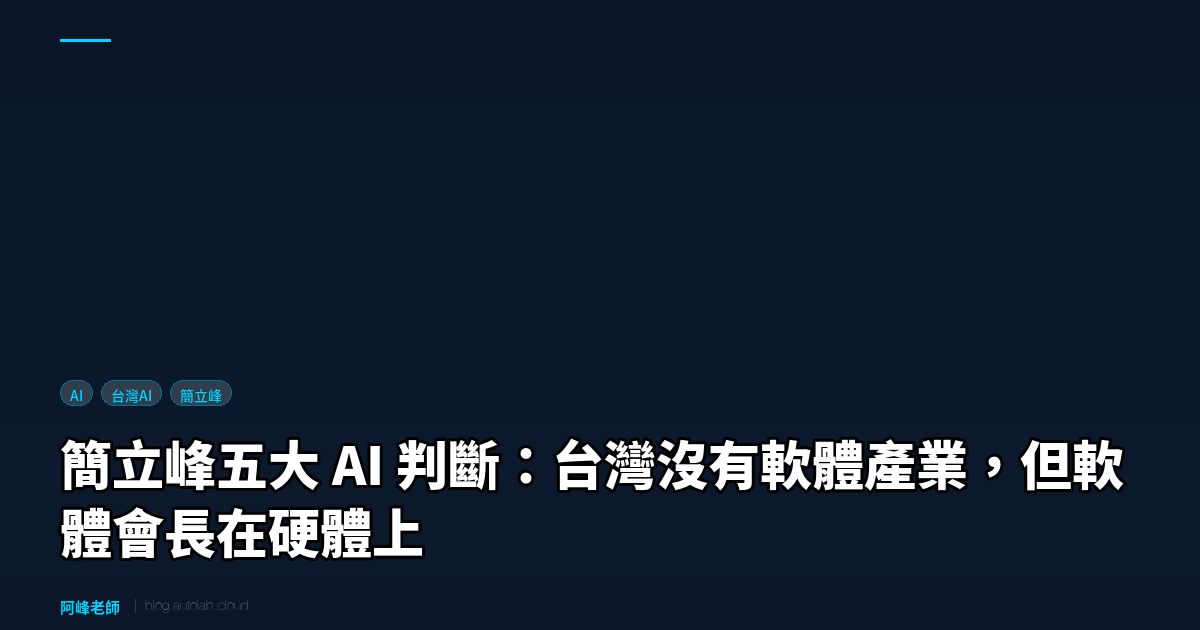
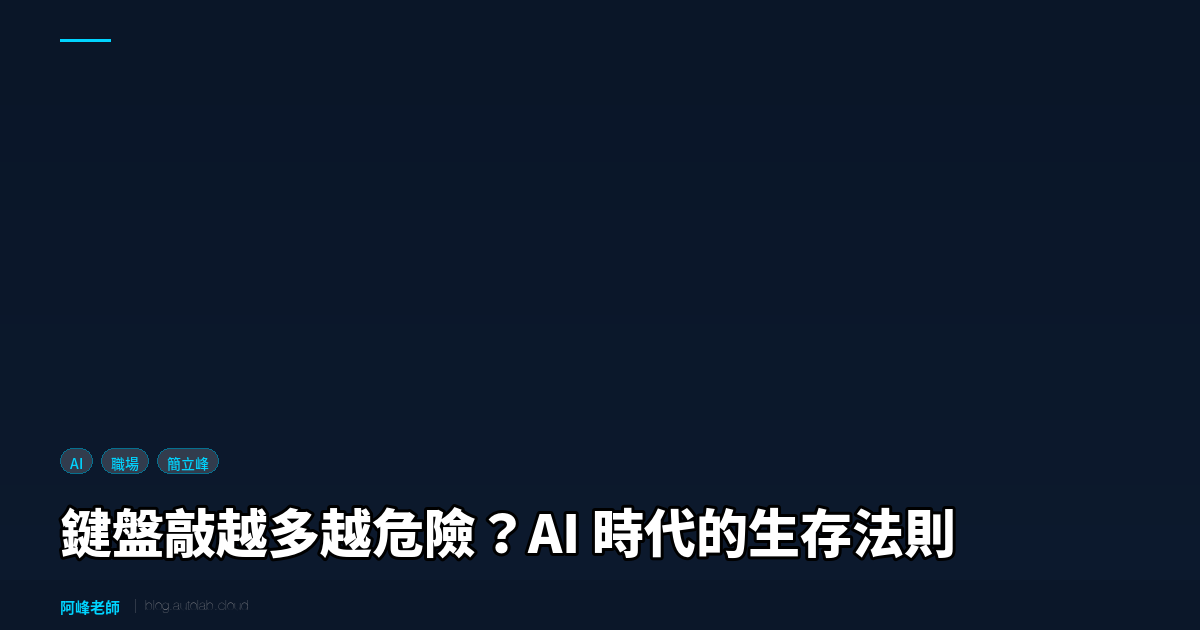
blog: rebuild site

Changed region(s): [[0.0308, 0.6937, 0.9558, 0.9048], [0.0308, 0.6032, 0.2158, 0.6635]]

diff --git a/blog/article-2026-03-07/index.html b/blog/article-2026-03-07/index.html
@@ -3,17 +3,17 @@
 <head>
   <meta charset="UTF-8">
   <meta name="viewport" content="width=device-width, initial-scale=1.0">
-  <title>簡立峰五大 AI 判斷：台灣沒有軟體產業，但軟體會長在硬體上 — 阿峰老師</title>
-  <meta name="description" content="Google 台灣前總經理簡立峰對台灣 AI 未來做出五個關鍵判斷。從兩國九家公司壟斷 AI，到中小企業老闆用 AI 乘三倍，阿峰老師帶你拆解每一個判斷背後的實戰意義。">
-  <meta name="keywords" content="簡立峰 AI, 台灣 AI 策略, 中小企業 AI, 企業 AI 培訓, Gemini 3">
+  <title>鍵盤敲越多越危險？AI 時代的個人生存法則｜簡立峰博士觀點 — 阿峰老師</title>
+  <meta name="description" content="前 Google 台灣董事總經理簡立峰博士揭露 AI 時代職場真相：鍵盤工作比例越高越危險，但一人公司是巨大機會。含獨家自我檢測法和一人公司實戰指南。">
+  <meta name="keywords" content="AI時代生存, 鍵盤工作被取代, 一人公司, 簡立峰AI, AI職場趨勢">
   <meta name="author" content="黃敬峰（AI峰哥）">
   <link rel="canonical" href="https://blog.autolab.cloud/article-2026-03-07/">
 
   <!-- Open Graph -->
   <meta property="og:type" content="article">
-  <meta property="og:title" content="簡立峰五大 AI 判斷：台灣沒有軟體產業，但軟體會長在硬體上">
-  <meta property="og:description" content="Google 台灣前總經理簡立峰對台灣 AI 未來做出五個關鍵判斷。從兩國九家公司壟斷 AI，到中小企業老闆用 AI 乘三倍，阿峰老師帶你拆解每一個判斷背後的實戰意義。">
-  <meta property="og:image" content="https://blog.autolab.cloud/article-2026-03-07/thumbnail.png">
+  <meta property="og:title" content="鍵盤敲越多越危險？AI 時代的個人生存法則｜簡立峰博士觀點">
+  <meta property="og:description" content="前 Google 台灣董事總經理簡立峰博士揭露 AI 時代職場真相：鍵盤工作比例越高越危險，但一人公司是巨大機會。含獨家自我檢測法和一人公司實戰指南。">
+  <meta property="og:image" content="https://blog.autolab.cloud/article-2026-03-07/banner.png">
   <meta property="og:image:width" content="1200">
   <meta property="og:image:height" content="630">
   <meta property="og:url" content="https://blog.autolab.cloud/article-2026-03-07/">
@@ -25,12 +25,12 @@
 
   <!-- Twitter Card -->
   <meta name="twitter:card" content="summary_large_image">
-  <meta name="twitter:title" content="簡立峰五大 AI 判斷：台灣沒有軟體產業，但軟體會長在硬體上">
-  <meta name="twitter:description" content="Google 台灣前總經理簡立峰對台灣 AI 未來做出五個關鍵判斷。從兩國九家公司壟斷 AI，到中小企業老闆用 AI 乘三倍，阿峰老師帶你拆解每一個判斷背後的實戰意義。">
-  <meta name="twitter:image" content="https://blog.autolab.cloud/article-2026-03-07/thumbnail.png">
+  <meta name="twitter:title" content="鍵盤敲越多越危險？AI 時代的個人生存法則｜簡立峰博士觀點">
+  <meta name="twitter:description" content="前 Google 台灣董事總經理簡立峰博士揭露 AI 時代職場真相：鍵盤工作比例越高越危險，但一人公司是巨大機會。含獨家自我檢測法和一人公司實戰指南。">
+  <meta name="twitter:image" content="https://blog.autolab.cloud/article-2026-03-07/banner.png">
 
   <!-- JSON-LD -->
-  <script type="application/ld+json">{"@context": "https://schema.org", "@type": "Article", "headline": "簡立峰五大 AI 判斷：台灣沒有軟體產業，但軟體會長在硬體上", "description": "Google 台灣前總經理簡立峰對台灣 AI 未來做出五個關鍵判斷。從兩國九家公司壟斷 AI，到中小企業老闆用 AI 乘三倍，阿峰老師帶你拆解每一個判斷背後的實戰意義。", "author": {"@type": "Person", "name": "黃敬峰（AI峰哥）", "url": "https://www.autolab.cloud"}, "publisher": {"@type": "Organization", "name": "Autolab", "url": "https://www.autolab.cloud", "logo": {"@type": "ImageObject", "url": "https://blog.autolab.cloud/static/og-default.png"}}, "datePublished": "2026-03-07T00:00:00+08:00", "dateModified": "2026-03-07T00:00:00+08:00", "image": "https://blog.autolab.cloud/article-2026-03-07/thumbnail.png", "mainEntityOfPage": "https://blog.autolab.cloud/article-2026-03-07/", "keywords": "簡立峰 AI, 台灣 AI 策略, 中小企業 AI, 企業 AI 培訓, Gemini 3", "inLanguage": "zh-Hant-TW", "video": {"@type": "VideoObject", "name": "簡立峰五大 AI 判斷：台灣沒有軟體產業，但軟體會長在硬體上", "description": "Google 台灣前總經理簡立峰對台灣 AI 未來做出五個關鍵判斷。從兩國九家公司壟斷 AI，到中小企業老闆用 AI 乘三倍，阿峰老師帶你拆解每一個判斷背後的實戰意義。", "thumbnailUrl": "https://img.youtube.com/vi/RpipnM9kCK4/maxresdefault.jpg", "uploadDate": "2026-03-07T00:00:00+08:00", "embedUrl": "https://www.youtube.com/embed/RpipnM9kCK4", "url": "https://www.youtube.com/watch?v=RpipnM9kCK4"}}</script>
+  <script type="application/ld+json">{"@context": "https://schema.org", "@type": "Article", "headline": "鍵盤敲越多越危險？AI 時代的個人生存法則｜簡立峰博士觀點", "description": "前 Google 台灣董事總經理簡立峰博士揭露 AI 時代職場真相：鍵盤工作比例越高越危險，但一人公司是巨大機會。含獨家自我檢測法和一人公司實戰指南。", "author": {"@type": "Person", "name": "黃敬峰（AI峰哥）", "url": "https://www.autolab.cloud"}, "publisher": {"@type": "Organization", "name": "Autolab", "url": "https://www.autolab.cloud", "logo": {"@type": "ImageObject", "url": "https://blog.autolab.cloud/static/og-default.png"}}, "datePublished": "2026-03-07T00:00:00+08:00", "dateModified": "2026-03-07T00:00:00+08:00", "image": "https://blog.autolab.cloud/article-2026-03-07/banner.png", "mainEntityOfPage": "https://blog.autolab.cloud/article-2026-03-07/", "keywords": "AI時代生存, 鍵盤工作被取代, 一人公司, 簡立峰AI, AI職場趨勢", "inLanguage": "zh-Hant-TW", "video": {"@type": "VideoObject", "name": "鍵盤敲越多越危險？AI 時代的個人生存法則｜簡立峰博士觀點", "description": "前 Google 台灣董事總經理簡立峰博士揭露 AI 時代職場真相：鍵盤工作比例越高越危險，但一人公司是巨大機會。含獨家自我檢測法和一人公司實戰指南。", "thumbnailUrl": "https://img.youtube.com/vi/J9F-Obf-IcE/maxresdefault.jpg", "uploadDate": "2026-03-07T00:00:00+08:00", "embedUrl": "https://www.youtube.com/embed/J9F-Obf-IcE", "url": "https://www.youtube.com/watch?v=J9F-Obf-IcE"}}</script>
 
   <!-- Favicon -->
   <link rel="icon" type="image/png" href="https://blog.autolab.cloud/static/favicon.png">
@@ -70,73 +70,113 @@
       <span>2026-03-07</span>
       <span>黃敬峰（AI峰哥）</span>
     </div>
-    <h1>簡立峰五大 AI 判斷：台灣沒有軟體產業，但軟體會長在硬體上</h1>
-    <div class="card-tags"><span class="tag">AI</span><span class="tag">台灣AI</span><span class="tag">簡立峰</span><span class="tag">Google</span><span class="tag">中小企業AI</span><span class="tag">企業AI培訓</span><span class="tag">阿峰老師</span></div>
+    <h1>鍵盤敲越多越危險？AI 時代的個人生存法則｜簡立峰博士觀點</h1>
+    <div class="card-tags"><span class="tag">AI</span><span class="tag">職場</span><span class="tag">簡立峰</span><span class="tag">一人公司</span><span class="tag">AI培訓</span></div>
   </header>
 
   <!-- Featured Image -->
-  <div class="featured-image-wrapper"><img src="thumbnail.png" alt="簡立峰五大 AI 判斷：台灣沒有軟體產業，但軟體會長在硬體上" class="featured-image" loading="lazy" width="780" height="438"></div>
+  <div class="featured-image-wrapper"><img src="banner.png" alt="鍵盤敲越多越危險？AI 時代的個人生存法則｜簡立峰博士觀點" class="featured-image" loading="lazy" width="780" height="438"></div>
 
   <!-- YouTube -->
-  <a href="https://www.youtube.com/watch?v=RpipnM9kCK4" target="_blank" rel="noopener" class="yt-banner" aria-label="在 YouTube 觀看：簡立峰五大 AI 判斷：台灣沒有軟體產業，但軟體會長在硬體上">
-  <img src="https://img.youtube.com/vi/RpipnM9kCK4/maxresdefault.jpg"
-       onerror="this.src='https://img.youtube.com/vi/RpipnM9kCK4/hqdefault.jpg'"
-       alt="觀看影片：簡立峰五大 AI 判斷：台灣沒有軟體產業，但軟體會長在硬體上" loading="lazy" width="1280" height="720">
+  <a href="https://www.youtube.com/watch?v=J9F-Obf-IcE" target="_blank" rel="noopener" class="yt-banner" aria-label="在 YouTube 觀看：鍵盤敲越多越危險？AI 時代的個人生存法則｜簡立峰博士觀點">
+  <img src="https://img.youtube.com/vi/J9F-Obf-IcE/maxresdefault.jpg"
+       onerror="this.src='https://img.youtube.com/vi/J9F-Obf-IcE/hqdefault.jpg'"
+       alt="觀看影片：鍵盤敲越多越危險？AI 時代的個人生存法則｜簡立峰博士觀點" loading="lazy" width="1280" height="720">
   <div class="yt-play" role="img" aria-hidden="true">&#9654;</div>
 </a>
 
   <!-- CONTENT -->
   <main id="main-content">
   <article class="article-content">
-    <h1 id="google-ai">Google 前總經理簡立峰的五個判斷：台灣 AI 的機會與殘酷真相</h1>
+    <h1 id="ai">鍵盤敲越多越危險？簡立峰博士教你 AI 時代的生存法則</h1>
 <blockquote>
-<p>本文是 YouTube 影片「Google前總經理簡立峰：台灣AI未來的5個關鍵判斷」的延伸閱讀版。
-影片講了核心觀念，本文加上獨家分析和實戰觀察。
-影片版本：<a href="https://www.youtube.com/watch?v=RpipnM9kCK4">https://www.youtube.com/watch?v=RpipnM9kCK4</a></p>
+<p>本文是 YouTube 影片「鍵盤敲越多越危險？簡立峰博士揭露 AI 時代的生存法則」的延伸閱讀版。
+影片講了核心觀念，本文加上獨家分析和實戰建議。
+影片版本：<a href="https://www.youtube.com/watch?v=J9F-Obf-IcE">https://www.youtube.com/watch?v=J9F-Obf-IcE</a></p>
 </blockquote>
 <hr />
 <h2 id="_1">影片重點回顧</h2>
-<p>Google 台灣前總經理簡立峰在思想實驗室的深度訪談中，對台灣 AI 產業做出五個關鍵判斷：AI 已是經濟問題而非科學問題、全球只剩兩國九家公司、台灣機會在邊緣裝置與垂直整合、中小企業老闆先用 AI 就夠、台灣最大問題是沒有人而非沒有技術。每一個判斷都指向同一個結論——台灣要把自己的概念變大。</p>
+<p>前 Google 台灣董事總經理簡立峰博士指出，AI 正在改變職場的遊戲規則。麥肯錫把每個工作拆成三種能力：虛擬環境、實體世界、人際情商。結論是「鍵盤敲越多的人，越容易被取代」。但同時，OECD 預測今年全球會出現 200-300 萬家一人公司，危機中藏著巨大機會。</p>
 <hr />
-<h2 id="_2">【獨家】從培訓現場看簡立峰的「老闆乘三倍」理論</h2>
-<p>簡立峰說中小企業不需要全員導入 AI，老闆一個人用就夠了。這個觀點我在培訓現場已經驗證過上百次。</p>
-<p>我服務過超過 400 家企業，從台積電、國泰金控到只有五個人的小公司。有一個共同的模式：大企業的 AI 導入通常是由上而下的策略決定，HR 規劃培訓、IT 部門選工具、全員分批上課。但中小企業完全不是這樣。</p>
-<p>中小企業的 AI 導入幾乎都是「老闆自己先玩起來，然後帶動全公司」。</p>
-<p>我有一個學員，開了一家 15 人的行銷公司。他上完我的課之後，回去用 ChatGPT 重新設計了客戶提案流程。以前一份提案要花三天，現在半天就搞定，而且品質更好。他沒有要求員工學 AI，但員工看到老闆的效率暴增，自己就開始學了。</p>
-<p>這就是簡立峰說的「老闆乘三倍」效應。不是你教員工用 AI，是老闆用 AI 用到效果太明顯，員工自己就跟上了。</p>
-<p>但這裡有一個簡立峰沒有展開的問題：老闆要學什麼？</p>
-<p>根據我的培訓經驗，中小企業老闆最需要的三個 AI 技能是：</p>
+<h2 id="_2">【獨家】你的工作有多少是「鍵盤工作」？自我檢測法</h2>
+<p>簡立峰博士的觀點讓我印象深刻，但很多人聽完可能會問：「所以我到底該怎麼辦？」</p>
+<p>我在企業培訓的時候，會請學員做一個簡單的練習：把你一天的工作列出來，然後標記每一項是「鍵盤工作」還是「非鍵盤工作」。</p>
+<p><strong>鍵盤工作</strong>：寫報告、回 Email、整理數據、製作簡報、寫程式、文案撰寫
+<strong>非鍵盤工作</strong>：面對面溝通、客戶拜訪、現場指導、創意發想、策略討論、團隊帶領</p>
+<p>如果你的鍵盤工作佔比超過 70%，你就需要認真思考了。不是說你會被裁員，而是你的工作中有很大一部分可以被 AI 加速甚至取代。</p>
+<p>但好消息是，這代表你有更多時間去做那些 AI 做不到的事：建立關係、做策略判斷、創造新的商業價值。</p>
+<h3 id="_3">三個轉型方向</h3>
 <ol>
 <li>
-<p><strong>用 AI 做客戶研究</strong>：你不需要花錢做市調了。問 AI 你的目標客群在想什麼、競爭對手在做什麼、這個市場的趨勢是什麼。一個下午就能拿到過去要花十萬塊才能得到的洞察。</p>
+<p><strong>從執行者變成審核者</strong>：讓 AI 先出第一版，你負責審核和優化。你的專業判斷力就是價值所在。</p>
 </li>
 <li>
-<p><strong>用 AI 寫提案和報告</strong>：不是讓 AI 幫你寫，而是讓 AI 幫你「升級」。你寫一個粗略版本，讓 AI 幫你加數據、加案例、加專業用語。從 70 分升級到 90 分，速度快五倍。</p>
+<p><strong>從單打獨鬥變成 AI 團隊長</strong>：學會同時操作多個 AI 工具，讓它們各司其職。文案用 ChatGPT、數據用 Claude、圖片用 Midjourney，你是指揮官。</p>
 </li>
 <li>
-<p><strong>用 AI 管理日常營運</strong>：排班、庫存、客服回覆、社群貼文，這些重複性工作全部可以讓 AI 協助。老闆不用再當全公司的消防隊長。</p>
+<p><strong>從純數位走向實體連結</strong>：刻意增加面對面的互動。AI 時代最稀缺的反而是「人的溫度」。</p>
 </li>
 </ol>
 <hr />
-<h2 id="_3">【獨家】「兩國九家」格局下，台灣新創的生存指南</h2>
-<p>簡立峰把全球 AI 格局講得很清楚：美國七家、中國兩家，門檻高到後進者進不來。但他也提到台灣有一個獨特的優勢位置——硬體。</p>
-<p>我在培訓現場看到一個有趣的現象：越來越多台灣的硬體公司開始認真投入 AI。不是因為他們突然開竅了，而是因為他們的美國客戶要求他們必須具備 AI 能力。</p>
-<p>一家做工業感測器的公司告訴我，他們的美國客戶直接說：「如果你的產品不能接 AI 模型做預測性維護，我們就換供應商。」這家公司的老闆嚇到了，馬上來找我做企業培訓。</p>
-<p>這就是簡立峰說的「軟體長在硬體上」。台灣不需要做出自己的大模型，但每一個硬體產品都需要具備接入雲端 AI 的能力。這個「接水管」的工作，就是台灣新創的機會。</p>
-<p>根據我的觀察，目前在台灣做得最好的 AI 新創，都有以下共同特徵：</p>
+<h2 id="0-1">【獨家】一人公司實戰指南：從 0 到 1 的五個步驟</h2>
+<p>影片中提到 OECD 預測今年全球會出現 200-300 萬家一人公司，我想進一步分享我觀察到的成功模式。</p>
+<h3 id="step-1ai">Step 1：找到你的「AI 加速區」</h3>
+<p>不是所有工作都適合一人公司。最適合的是那些「專業門檻高 + AI 可以大幅提升效率」的領域：</p>
 <ul>
-<li><strong>垂直整合</strong>：專注一個產業，把那個產業的 workflow 搞到透徹</li>
-<li><strong>資料為王</strong>：掌握特定產業的數據，這是雲端大模型沒有的</li>
-<li><strong>巨人肩膀</strong>：站在 Google、Microsoft、AWS 的 AI 服務上面，不自己造輪子</li>
-<li><strong>大客戶優先</strong>：先服務大企業（甚至是台積電），用大客戶的需求磨練產品</li>
+<li><strong>行銷顧問</strong>：策略靠你的經驗，執行（文案、素材、報告）交給 AI</li>
+<li><strong>設計工作室</strong>：客戶溝通靠你，初稿和變體交給 AI</li>
+<li><strong>培訓講師</strong>：課程設計靠你的教學經驗，講義和評估工具交給 AI</li>
+<li><strong>數據分析</strong>：商業洞察靠你的行業理解，數據處理交給 AI</li>
 </ul>
+<h3 id="step-2-ai">Step 2：建立你的 AI 工具箱</h3>
+<p>一人公司至少需要掌握這些 AI 工具：</p>
+<table>
+<thead>
+<tr>
+<th>用途</th>
+<th>推薦工具</th>
+</tr>
+</thead>
+<tbody>
+<tr>
+<td>文字生成</td>
+<td>ChatGPT / Claude</td>
+</tr>
+<tr>
+<td>深度研究</td>
+<td>Gemini Deep Research / Perplexity</td>
+</tr>
+<tr>
+<td>簡報製作</td>
+<td>Gamma / Beautiful.ai</td>
+</tr>
+<tr>
+<td>圖片設計</td>
+<td>Midjourney / Canva AI</td>
+</tr>
+<tr>
+<td>自動化</td>
+<td>n8n / Zapier</td>
+</tr>
+<tr>
+<td>語音轉文字</td>
+<td>Whisper / 會議記錄小幫手</td>
+</tr>
+</tbody>
+</table>
+<h3 id="step-3">Step 3：用七成成本報價</h3>
+<p>簡立峰博士提到的「七成成本」是關鍵。你不需要削價競爭，而是你的效率讓你在七成價格時仍然有合理利潤。這對客戶來說是雙贏。</p>
+<h3 id="step-4">Step 4：建立作品集而非名片</h3>
+<p>一人公司不需要華麗的辦公室和名片。你需要的是一個能展示成果的線上作品集。用 AI 幫你快速建立一個專業的個人網站。</p>
+<h3 id="step-5">Step 5：從兼職開始，不要裸辭</h3>
+<p>最安全的方式是在現有工作中驗證你的一人公司模式。先接 2-3 個小案子，確認模式可行，再考慮全職投入。</p>
 <hr />
 <h2 id="_4">阿峰觀點</h2>
-<p>簡立峰的五個判斷中，我覺得最被低估的是第四個——中小企業的 AI 策略。</p>
-<p>台灣有超過 150 萬家中小企業，佔全部企業的 98%。如果每個老闆都能把自己「乘以三倍」，台灣的整體生產力會出現一次巨大的跳躍。這不需要等政府政策、不需要等大企業帶頭、不需要砸大錢投資基礎設施。</p>
-<p>你只需要一台電腦、一個 AI 帳號、和兩個小時的學習時間。</p>
-<p>我在課堂上常說的一句話是：「你是機長，AI 是機組人員。」你不需要自己飛飛機，但你必須知道要飛到哪裡。AI 時代最重要的能力不是寫程式、不是做模型，而是知道該問什麼問題、該往哪個方向走。</p>
-<p>簡立峰用隧道做比喻，我覺得非常精準。大部分人看到的是黑暗，但走過隧道的人看到的是另一個世界。</p>
+<p>簡立峰博士有一句話我反覆在企業培訓中引用：「一問一答叫抄襲，十問十答叫學習，百問百答叫創造。」</p>
+<p>我服務過超過 400 家企業，從台積電到街口小店，發現一個共同規律：導入 AI 最成功的團隊，不是技術最強的，而是最願意改變工作方式的。</p>
+<p>技術可以學，工具可以買，但心態的轉變才是最難的。很多資深主管第一反應是「這個 AI 回答得不好啊」，然後就再也不用了。他們不知道的是，AI 每天晚上都在進步，今天不好用不代表下個月不好用。</p>
+<p>你是機長，AI 是機組人員。機長不需要自己開引擎，但他要知道什麼時候該讓機組人員做什麼。</p>
+<p>AI 就像簡立峰博士說的那個隧道——有人看到暗暗的覺得是風險，有人看到盡頭的亮光覺得是機會。這個機會，可能一生只有一次。</p>
 <hr />
 <h2 id="_5">本文提到的資源</h2>
 <table>
@@ -151,42 +191,37 @@
 <tr>
 <td>ChatGPT</td>
 <td><a href="https://chatgpt.com">https://chatgpt.com</a></td>
-<td>OpenAI 的 AI 對話工具</td>
-</tr>
-<tr>
-<td>Gemini</td>
-<td><a href="https://gemini.google.com">https://gemini.google.com</a></td>
-<td>Google 的 AI 助手</td>
+<td>AI 對話工具</td>
 </tr>
 <tr>
 <td>Claude</td>
 <td><a href="https://claude.ai">https://claude.ai</a></td>
-<td>Anthropic 的 AI 助手</td>
+<td>AI 助理</td>
+</tr>
+<tr>
+<td>Gemini</td>
+<td><a href="https://gemini.google.com">https://gemini.google.com</a></td>
+<td>Google AI（含 Deep Research）</td>
 </tr>
 <tr>
 <td>Perplexity</td>
 <td><a href="https://www.perplexity.ai">https://www.perplexity.ai</a></td>
 <td>AI 搜尋引擎</td>
 </tr>
-</tbody>
-</table>
-<h2 id="_6">影片中提到的資源</h2>
-<table>
-<thead>
 <tr>
-<th>資源</th>
-<th>連結</th>
-</tr>
-</thead>
-<tbody>
-<tr>
-<td>思想實驗室 ep75 完整版</td>
-<td><a href="https://www.youtube.com/watch?v=lie9zRW2P6A">https://www.youtube.com/watch?v=lie9zRW2P6A</a></td>
+<td>Gamma</td>
+<td><a href="https://gamma.app">https://gamma.app</a></td>
+<td>AI 簡報製作</td>
 </tr>
 </tbody>
 </table>
 <hr />
-<p>企業 AI 培訓｜阿峰老師服務過台積電、國泰金控等 400+ 家企業
+<h2 id="_6">影片中提到的資源</h2>
+<ul>
+<li>簡立峰博士原始訪談：<a href="https://www.youtube.com/watch?v=QxpE6vgP0D8">https://www.youtube.com/watch?v=QxpE6vgP0D8</a></li>
+</ul>
+<hr />
+<p>企業 AI 培訓｜阿峰老師服務過台積電、國泰金控、中華電信等 400+ 企業
 → <a href="https://www.autolab.cloud">https://www.autolab.cloud</a></p>
 <hr />
 <h3 id="_7">關於作者</h3>

diff --git a/blog/index.html b/blog/index.html
@@ -92,12 +92,12 @@
   </div>
 </a>
 <a href="https://blog.autolab.cloud/article-2026-03-07/" class="card">
-  <img class="card-thumb" src="https://blog.autolab.cloud/article-2026-03-07/banner.png" alt="簡立峰五大 AI 判斷：台灣沒有軟體產業，但軟體會長在硬體上" loading="lazy">
+  <img class="card-thumb" src="https://blog.autolab.cloud/article-2026-03-07/banner.png" alt="鍵盤敲越多越危險？AI 時代的個人生存法則｜簡立峰博士觀點" loading="lazy">
   <div class="card-body">
     <div class="card-date">2026-03-07</div>
-    <div class="card-title">簡立峰五大 AI 判斷：台灣沒有軟體產業，但軟體會長在硬體上</div>
-    <div class="card-desc">Google 台灣前總經理簡立峰對台灣 AI 未來做出五個關鍵判斷。從兩國九家公司壟斷 AI，到中小企業老闆用 AI 乘三倍，阿峰老師帶你拆解每一個判斷背後的實戰意義。</div>
-    <div class="card-tags"><span class="tag">AI</span><span class="tag">台灣AI</span><span class="tag">簡立峰</span></div>
+    <div class="card-title">鍵盤敲越多越危險？AI 時代的個人生存法則｜簡立峰博士觀點</div>
+    <div class="card-desc">前 Google 台灣董事總經理簡立峰博士揭露 AI 時代職場真相：鍵盤工作比例越高越危險，但一人公司是巨大機會。含獨家自我檢測法和一人公司實戰指南。</div>
+    <div class="card-tags"><span class="tag">AI</span><span class="tag">職場</span><span class="tag">簡立峰</span></div>
   </div>
 </a>
 <a href="https://blog.autolab.cloud/satya-nadella-ai-ceo-ai-ai/" class="card">

diff --git a/articles/vibe-coding-ai.md b/articles/vibe-coding-ai.md
@@ -150,6 +150,14 @@ AI 時代的正確路徑是：
 
 ---
 
+## 延伸閱讀
+
+- [10 個素人用 Claude Code 做出的真實產品｜最快 4.5 小時上線](https://blog.autolab.cloud/claude-code-10-real-products/)
+- [AI 時代創業不再靠資金，靠的是這六個步驟](https://blog.autolab.cloud/ai-new-business-rules/)
+- [Claude 被封殺、Block 裁員一半：AI 時代職場生存指南（2026）](https://blog.autolab.cloud/ai-block-claude/)
+
+---
+
 📌 2026 AI 實戰應用課 — 從觀念到落地，帶你真正用 AI 解決問題
 → autolab.cloud/2026-ai-course
 

diff --git a/articles/ai-block-claude.md b/articles/ai-block-claude.md
@@ -170,6 +170,14 @@ https://investors.block.xyz
 
 ---
 
+## 延伸閱讀
+
+- [AI 裁員潮來了？Block 砍 5000 人背後的真相與 5 步工作拆解法](https://blog.autolab.cloud/ai-block-2026-ai/)
+- [Vibe Coding 入門指南：工具人時代結束，用 AI 協作解決真問題](https://blog.autolab.cloud/vibe-coding-ai/)
+- [AI 時代創業不再靠資金，靠的是這六個步驟](https://blog.autolab.cloud/ai-new-business-rules/)
+
+---
+
 ## 想更深入學習 AI？
 
 **2026 AI 實戰應用課（小班制手把手課程）**

diff --git a/articles/article-2026-03-06.md b/articles/article-2026-03-06.md
@@ -136,6 +136,14 @@ youtube_id: Lxb5AZd5ySo
 
 ---
 
+## 延伸閱讀
+
+- [AI 裁員潮來了？Block 砍 5000 人背後的真相與 5 步工作拆解法](https://blog.autolab.cloud/ai-block-2026-ai/)
+- [八千萬人閱讀的 AI 末日預言｜Matt Shumer 警告大事要發生了](https://blog.autolab.cloud/ai-matt-shumer-something-big-ai/)
+- [AI 時代創業不再靠資金，靠的是這六個步驟](https://blog.autolab.cloud/ai-new-business-rules/)
+
+---
+
 2026 AI 實戰應用課
 → autolab.cloud/2026-ai-course
 

diff --git a/articles/claude-code-10-real-products.md b/articles/claude-code-10-real-products.md
@@ -164,6 +164,13 @@ Spec 給得完整、Skill 設計得精準、踩坑記錄寫得清楚——這些
 
 ---
 
+## 延伸閱讀
+
+- [Vibe Coding 入門指南：工具人時代結束，用 AI 協作解決真問題](https://blog.autolab.cloud/vibe-coding-ai/)
+- [AI 時代創業不再靠資金，靠的是這六個步驟](https://blog.autolab.cloud/ai-new-business-rules/)
+
+---
+
 ## 想更深入學習 AI？
 
 **2026 AI 實戰應用課（小班制手把手課程）**
